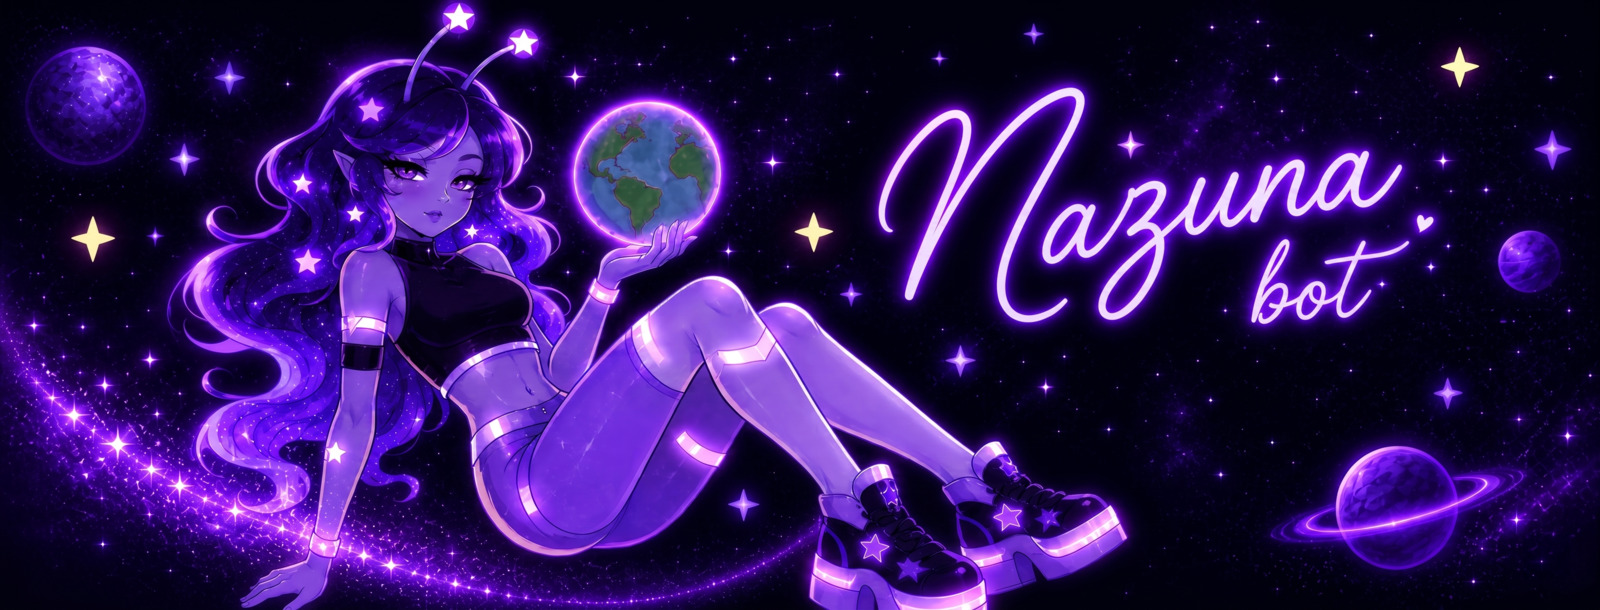
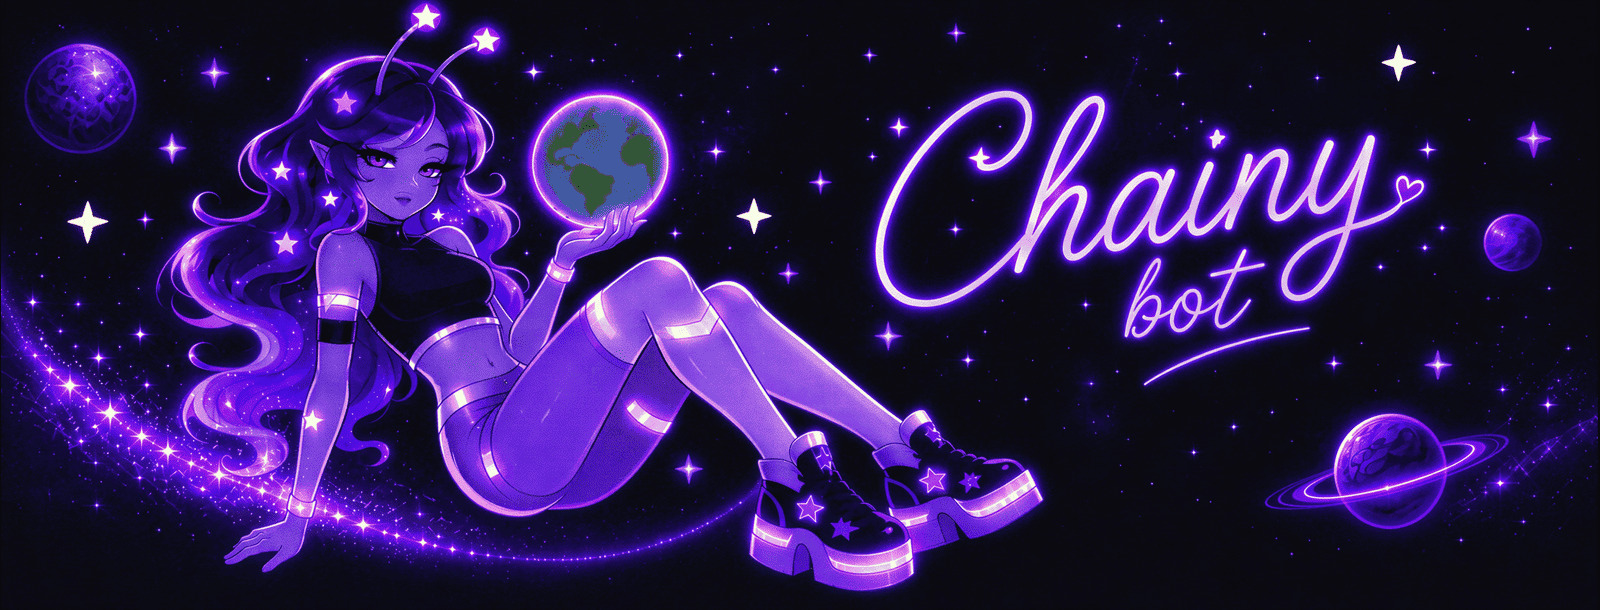
nazuna >> chainy

diff --git a/src/.scripts/config.js b/src/.scripts/config.js
@@ -31,7 +31,7 @@ const print = {
     separator: () => console.log(`${colors.blue}=================================================${colors.reset}`),
     header: () => {
         print.separator();
-        console.log(`${colors.bold}🚀 Configurador Gênesis Nazuna - Versão ${version}${colors.reset}`);
+        console.log(`${colors.bold}🚀 Configurador Gênesis Chainy - Versão ${version}${colors.reset}`);
         console.log(`${colors.bold}👨💻 Criado por Hiudy${colors.reset}`);
         print.separator(); console.log();
     }
@@ -183,7 +183,7 @@ async function installNodeDependencies() {
         const cleanupPaths = [
             './temp',
             './logs/*.log', 
-            '/tmp/nazuna-*',
+            '/tmp/chainy-*',
             '/tmp/baileys_media_cache'
         ];
         
@@ -278,7 +278,7 @@ async function main() {
         print.info('📝 Lembre-se de instalar com: npm run config:install');
     }
 
-    print.message(`🎉 Nazuna configurado e pronto para uso! Versão: ${version}`);
+    print.message(`🎉 Chainy configurado e pronto para uso! Versão: ${version}`);
 }
 
 main().catch((error) => {

diff --git a/src/commands/rpg/rpg_materials.js b/src/commands/rpg/rpg_materials.js
@@ -1,8 +1,8 @@
-import { 
-    loadEconomy, 
-    saveEconomy, 
-    getEcoUser, 
-    ensureEconomyDefaults, 
+import {
+    loadEconomy,
+    saveEconomy,
+    getEcoUser,
+    ensureEconomyDefaults,
     fmt,
     parseAmount
 } from "../../utils/database.js";
@@ -11,10 +11,10 @@ export default {
     name: "rpg_materials",
     description: "Visualização e venda de materiais do RPG",
     commands: ["materiais", "precos", "preços", "vender"],
-    handle: async ({ 
-    reply, isGroup, groupData, sender, prefix, command, args,
-    MESSAGES
-  }) => {
+    handle: async ({
+        reply, isGroup, groupData, sender, prefix, command, args,
+        MESSAGES
+    }) => {
         if (!isGroup || !groupData.modorpg) return;
 
         const econ = loadEconomy();
@@ -22,7 +22,7 @@ export default {
         const me = getEcoUser(econ, sender);
         const sub = command.toLowerCase();
 
-        // Materiais e preços (idêntico ao nazuna-tokyo)
+        // Materiais e preços
         if (sub === 'materiais') {
             const mats = me.materials || {};
             const keys = Object.keys(mats).filter(k => mats[k] > 0);

diff --git a/src/.scripts/start.js b/src/.scripts/start.js
@@ -78,7 +78,7 @@ am startservice --user 0 \\
   -a com.termux.RUN_COMMAND \\
   --es com.termux.RUN_COMMAND_PATH '/data/data/com.termux/files/usr/bin/npm' \\
   --esa com.termux.RUN_COMMAND_ARGUMENTS 'start' \\
-  --es com.termux.RUN_COMMAND_SESSION_NAME 'Nazuna Bot' \\
+  --es com.termux.RUN_COMMAND_SESSION_NAME 'Chainy Bot' \\
   --es com.termux.RUN_COMMAND_WORKDIR '${path.join(process.cwd())}' \\
   --ez com.termux.RUN_COMMAND_BACKGROUND 'false' \\
   --es com.termux.RUN_COMMAND_SESSION_ACTION '0'
@@ -104,7 +104,7 @@ am startservice --user 0 \\
 
 function setupGracefulShutdown() {
   const shutdown = () => {
-    mensagem('🛑 Encerrando o Nazuna... Até logo!');
+    mensagem('🛑 Encerrando o Chainy... Até logo!');
     if (botProcess) {
       botProcess.removeAllListeners();
       botProcess.kill();
@@ -126,7 +126,7 @@ function setupGracefulShutdown() {
 
 async function displayHeader() {
   const header = [
-    `${colors.bold}🚀 Nazuna - Conexão WhatsApp${colors.reset}`,
+    `${colors.bold}🚀 Chainy - Conexão WhatsApp${colors.reset}`,
     `${colors.bold}📦 Versão: ${version}${colors.reset}`,
   ];
 

diff --git a/src/connect.js b/src/connect.js
@@ -458,7 +458,7 @@ async function createBotSocket(authDir) {
                         const ownerJid = buildUserId(numerodono, config);
                         const finalMessage = msgBotOnConfig.message
                             .replace(/{prefix}/g, config.prefixo || '!')
-                            .replace(/{botName}/g, config.nomebot || 'Nazuna')
+                            .replace(/{botName}/g, config.nomebot || 'Chainy')
                             .replace(/{ownerName}/g, config.nomedono || 'Dono');
                         await NazunaSock.sendMessage(ownerJid, { 
                             text: finalMessage 
@@ -600,7 +600,7 @@ async function startNazu() {
          era apagado a cada ciclo). O reset correto acontece no evento 'connection.update'
          quando connection === 'open', confirmando conexão real.
         */
-        console.log('🚀 Iniciando Nazuna...');
+        console.log('🚀 Iniciando Chainy...');
 
         await createBotSocket(AUTH_DIR);
         // isReconnecting = false é feito no finally abaixo

diff --git a/src/.scripts/update.js b/src/.scripts/update.js
@@ -12,7 +12,7 @@ const execAsync = promisify(exec);
 const __filename = fileURLToPath(import.meta.url);
 const __dirname = path.dirname(__filename);
 
-const REPO_URL = 'https://github.com/L1ghtzin/nazuna';
+const REPO_URL = 'https://github.com/L1ghtzin/chainy';
 const BACKUP_DIR = path.join(process.cwd(), `backup_${new Date().toISOString().replace(/[:.]/g, '_').replace(/T/, '_')}`);
 const TEMP_DIR = path.join(process.cwd(), 'temp_bot');
 const isWindows = os.platform() === 'win32';
@@ -565,7 +565,7 @@ async function main() {
     await cleanup();
     printMessage('🔄 Buscando informações do último commit...');
     
-    const response = await fetch('https://api.github.com/repos/L1ghtzin/nazuna/commits?per_page=1', {
+    const response = await fetch('https://api.github.com/repos/L1ghtzin/chainy/commits?per_page=1', {
       headers: { Accept: 'application/vnd.github+json' },
     });
     if (!response.ok) {

diff --git a/src/commands/member/download.js b/src/commands/member/download.js
@@ -310,8 +310,8 @@ export default {
     if (['zipbot', 'zip-bot', 'botzip', 'bot-zip', 'downloadbot', 'download-bot', 'github', 'repo', 'repositorio', 'source', 'sourcecode', 'source-code', 'git-bot', 'git-hub'].includes(cmd)) {
       try {
         await reply('📦 Baixando código-fonte...');
-        const zipUrl = 'https://github.com/L1ghtzin/nazuna/archive/refs/heads/main.zip';
-        await nazu.sendMessage(from, { document: { url: zipUrl }, fileName: 'nazuna-bot.zip', mimetype: 'application/zip', caption: `📂 *Código-fonte*` }, { quoted: info });
+        const zipUrl = 'https://github.com/L1ghtzin/chainy/archive/refs/heads/main.zip';
+        await nazu.sendMessage(from, { document: { url: zipUrl }, fileName: 'chainy-bot.zip', mimetype: 'application/zip', caption: `📂 *Código-fonte*` }, { quoted: info });
       } catch (e) { reply(MESSAGES.error.general); }
       return;
     }

diff --git a/src/commands/member/logos.js b/src/commands/member/logos.js
@@ -7,7 +7,7 @@ export default {
     "darkgreen", "glitch", "write", "advanced", "typography", "pixel", "neon", "flag", "americanflag", "deleting",
     "pornhub", "avengers", "graffiti", "captainamerica", "stone3d", "neon2", "thor", "amongus", "deadpool", "blackpink"
   ],
-  usage: "{prefix}avengers Nazuna/Bot",
+  usage: "{prefix}avengers Chainy/Bot",
   handle: async ({ 
     reply, 
     command, 
@@ -56,7 +56,7 @@ export default {
 
     if (doubleTextLogos.includes(cmd)) {
       const [texto1, texto2] = q.split('/').map(i => i.trim());
-      if (!texto1 || !texto2) return reply(`💔 Cadê os textos?\nExemplo: ${prefix}${cmd} Nazuna/Bot`);
+      if (!texto1 || !texto2) return reply(`💔 Cadê os textos?\nExemplo: ${prefix}${cmd} Chainy/Bot`);
 
       const modelo = cmd;
       await reply(`⏳ Gerando logotipo *${modelo.charAt(0).toUpperCase() + modelo.slice(1)}*... aguarde!`);

diff --git a/src/utils/autoRestarter.js b/src/utils/autoRestarter.js
@@ -21,7 +21,7 @@ class AutoRestarter {
             'UnhandledPromiseRejectionWarning'
         ];
         this.logFile = path.join(__dirname, '../../../logs/auto-restart.log');
-        this.pidFile = path.join(__dirname, '../../../nazuna.pid');
+        this.pidFile = path.join(__dirname, '../../../chainy.pid');
         this.isShuttingDown = false;
         this.childProcess = null;
         
@@ -213,7 +213,7 @@ class AutoRestarter {
             }
 
             // Limpa arquivos temporários
-            const tempDirs = ['/tmp/nazuna-*', './temp/*'];
+            const tempDirs = ['/tmp/chainy-*', './temp/*'];
             
             for (const tempPattern of tempDirs) {
                 try {

diff --git a/src/commands/admin/automsg.js b/src/commands/admin/automsg.js
@@ -89,7 +89,7 @@ Use os subcomandos:
         if (isQuotedImage || isQuotedVisuU || isQuotedVisuU2) {
           msgConfig.type = 'image';
           msgConfig.caption = quotedMessageContent.imageMessage?.caption || description;
-          // O buffer precisaria ser salvo em disco. No Nazuna, 
+          // O buffer precisaria ser salvo em disco. No Chainy, 
           // assumimos que o sistema de carregamento cuidará disso.
           return reply("⚠ Salvamento de mídia para automsg modularizado requer integração com o sistema de arquivos local. Migrando apenas metadados por enquanto.");
         } else if (isQuotedMsg || isQuotedMsg2) {

diff --git a/src/middleware/captchaHandler.js b/src/middleware/captchaHandler.js
@@ -100,7 +100,7 @@ export async function handleCaptchaResponse(nazu, sender, body, isGroup, info, r
       }).catch(() => {});
     }
     
-    // Se a lógica do nazuna aprova a requisição de grupo (para autoAccept), faz aqui também
+    // Se a lógica do chainy aprova a requisição de grupo (para autoAccept), faz aqui também
     try {
         await nazu.groupRequestParticipantsUpdate(isCapUser.groupId, [isCapUser.idOrigin], 'approve').catch(() => {});
     } catch {}

diff --git a/src/commands/member/nick.js b/src/commands/member/nick.js
@@ -10,7 +10,7 @@ export default {
     styleText
   , MESSAGES }) => {
     try {
-      if (!q) return reply(`🎮 *GERADOR DE NICK*\n\n📝 *Como usar:*\n• Digite o nick após o comando\n• Ex: ${prefix}nick nazuna`);
+      if (!q) return reply(`🎮 *GERADOR DE NICK*\n\n📝 *Como usar:*\n• Digite o nick após o comando\n• Ex: ${prefix}nick chainy`);
       
       const datzn = await styleText(q);
       await reply(datzn.join('\n'));

diff --git a/src/commands/owner/nomebot.js b/src/commands/owner/nomebot.js
@@ -17,7 +17,7 @@ export default {
   }) => {
     try {
       if (!isOwner) return reply(MESSAGES.permission.ownerOnly);
-      if (!q) return reply(`Por favor, digite o novo nome do bot.\nExemplo: ${prefix}${command} Nazuna`);
+      if (!q) return reply(`Por favor, digite o novo nome do bot.\nExemplo: ${prefix}${command} Chainy`);
       
       let config = JSON.parse(fs.readFileSync(CONFIG_FILE));
       config.nomebot = q;
